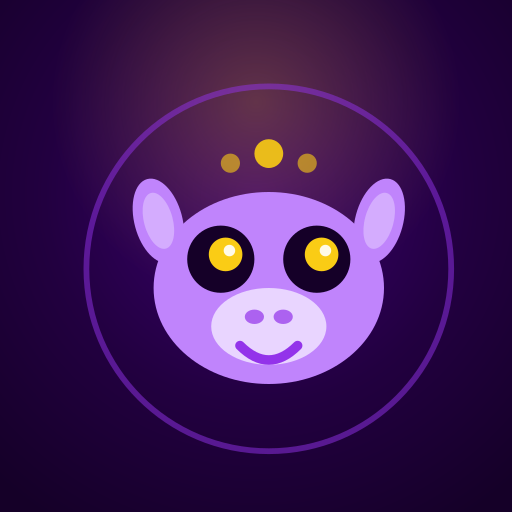
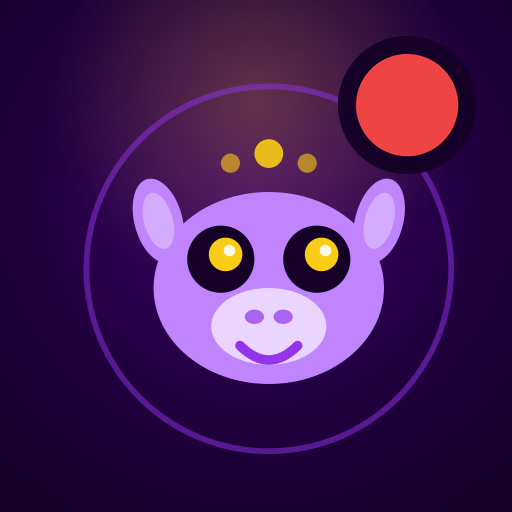
Add files via upload

Changed region(s): [[0.6562, 0.0625, 0.9062, 0.3438]]

diff --git a/index.html b/index.html
@@ -139,7 +139,16 @@
   }
 
   .nav-brand { display: flex; align-items: center; gap: 14px; text-decoration: none; }
+  .logo-wrap { position: relative; display: inline-flex; flex-shrink: 0; }
   .logo-svg { width: 48px; height: 48px; filter: drop-shadow(0 0 8px rgba(147,51,234,0.7)); }
+  .logo-badge {
+    position: absolute; top: -2px; right: -2px;
+    width: 11px; height: 11px; border-radius: 50%;
+    background: #ef4444; border: 2px solid var(--navbar-bg);
+    box-shadow: 0 0 6px rgba(239,68,68,0.8);
+    animation: dotPulse 1.8s ease-in-out infinite;
+  }
+  .logo-badge.hidden { display: none; }
   .brand-text { display: flex; flex-direction: column; }
   .brand-name { font-family: 'Orbitron', monospace; font-size: 1.1rem; font-weight: 900; color: var(--text-primary); letter-spacing: 1px; line-height: 1; text-shadow: 0 0 10px var(--purple-glow); }
   .brand-sub-row { display: flex; align-items: center; gap: 8px; }
@@ -368,27 +377,30 @@
 <!-- ── NAVBAR ── -->
 <nav class="navbar">
   <a class="nav-brand" href="#">
-    <svg class="logo-svg" viewBox="0 0 80 80" xmlns="http://www.w3.org/2000/svg">
-      <circle cx="40" cy="40" r="38" fill="#150028" stroke="#9333ea" stroke-width="1.5" opacity="0.8"/>
-      <ellipse cx="40" cy="44" rx="24" ry="20" fill="#c084fc"/>
-      <ellipse cx="40" cy="52" rx="12" ry="8" fill="#e9d5ff"/>
-      <circle cx="30" cy="38" r="7" fill="#150028"/>
-      <circle cx="50" cy="38" r="7" fill="#150028"/>
-      <circle cx="31" cy="37" r="3.5" fill="#facc15"/>
-      <circle cx="51" cy="37" r="3.5" fill="#facc15"/>
-      <circle cx="31.8" cy="36.2" r="1.2" fill="white" opacity="0.9"/>
-      <circle cx="51.8" cy="36.2" r="1.2" fill="white" opacity="0.9"/>
-      <ellipse cx="37" cy="50" rx="2" ry="1.5" fill="#9333ea" opacity="0.7"/>
-      <ellipse cx="43" cy="50" rx="2" ry="1.5" fill="#9333ea" opacity="0.7"/>
-      <ellipse cx="17" cy="30" rx="5" ry="9" fill="#c084fc" transform="rotate(-15 17 30)"/>
-      <ellipse cx="63" cy="30" rx="5" ry="9" fill="#c084fc" transform="rotate(15 63 30)"/>
-      <ellipse cx="17" cy="30" rx="3" ry="6" fill="#e9d5ff" opacity="0.5" transform="rotate(-15 17 30)"/>
-      <ellipse cx="63" cy="30" rx="3" ry="6" fill="#e9d5ff" opacity="0.5" transform="rotate(15 63 30)"/>
-      <path d="M34 56 Q40 62 46 56" stroke="#9333ea" stroke-width="2" fill="none" stroke-linecap="round"/>
-      <circle cx="40" cy="16" r="3" fill="#facc15" opacity="0.9"/>
-      <circle cx="32" cy="18" r="2" fill="#facc15" opacity="0.6"/>
-      <circle cx="48" cy="18" r="2" fill="#facc15" opacity="0.6"/>
-    </svg>
+    <div class="logo-wrap">
+      <svg class="logo-svg" viewBox="0 0 80 80" xmlns="http://www.w3.org/2000/svg">
+        <circle cx="40" cy="40" r="38" fill="#150028" stroke="#9333ea" stroke-width="1.5" opacity="0.8"/>
+        <ellipse cx="40" cy="44" rx="24" ry="20" fill="#c084fc"/>
+        <ellipse cx="40" cy="52" rx="12" ry="8" fill="#e9d5ff"/>
+        <circle cx="30" cy="38" r="7" fill="#150028"/>
+        <circle cx="50" cy="38" r="7" fill="#150028"/>
+        <circle cx="31" cy="37" r="3.5" fill="#facc15"/>
+        <circle cx="51" cy="37" r="3.5" fill="#facc15"/>
+        <circle cx="31.8" cy="36.2" r="1.2" fill="white" opacity="0.9"/>
+        <circle cx="51.8" cy="36.2" r="1.2" fill="white" opacity="0.9"/>
+        <ellipse cx="37" cy="50" rx="2" ry="1.5" fill="#9333ea" opacity="0.7"/>
+        <ellipse cx="43" cy="50" rx="2" ry="1.5" fill="#9333ea" opacity="0.7"/>
+        <ellipse cx="17" cy="30" rx="5" ry="9" fill="#c084fc" transform="rotate(-15 17 30)"/>
+        <ellipse cx="63" cy="30" rx="5" ry="9" fill="#c084fc" transform="rotate(15 63 30)"/>
+        <ellipse cx="17" cy="30" rx="3" ry="6" fill="#e9d5ff" opacity="0.5" transform="rotate(-15 17 30)"/>
+        <ellipse cx="63" cy="30" rx="3" ry="6" fill="#e9d5ff" opacity="0.5" transform="rotate(15 63 30)"/>
+        <path d="M34 56 Q40 62 46 56" stroke="#9333ea" stroke-width="2" fill="none" stroke-linecap="round"/>
+        <circle cx="40" cy="16" r="3" fill="#facc15" opacity="0.9"/>
+        <circle cx="32" cy="18" r="2" fill="#facc15" opacity="0.6"/>
+        <circle cx="48" cy="18" r="2" fill="#facc15" opacity="0.6"/>
+      </svg>
+      <span class="logo-badge" id="logoUpdateBadge" title="New app icon"></span>
+    </div>
     <div class="brand-text">
       <span class="brand-name">VVYNAS VANE</span>
       <div class="brand-sub-row">
